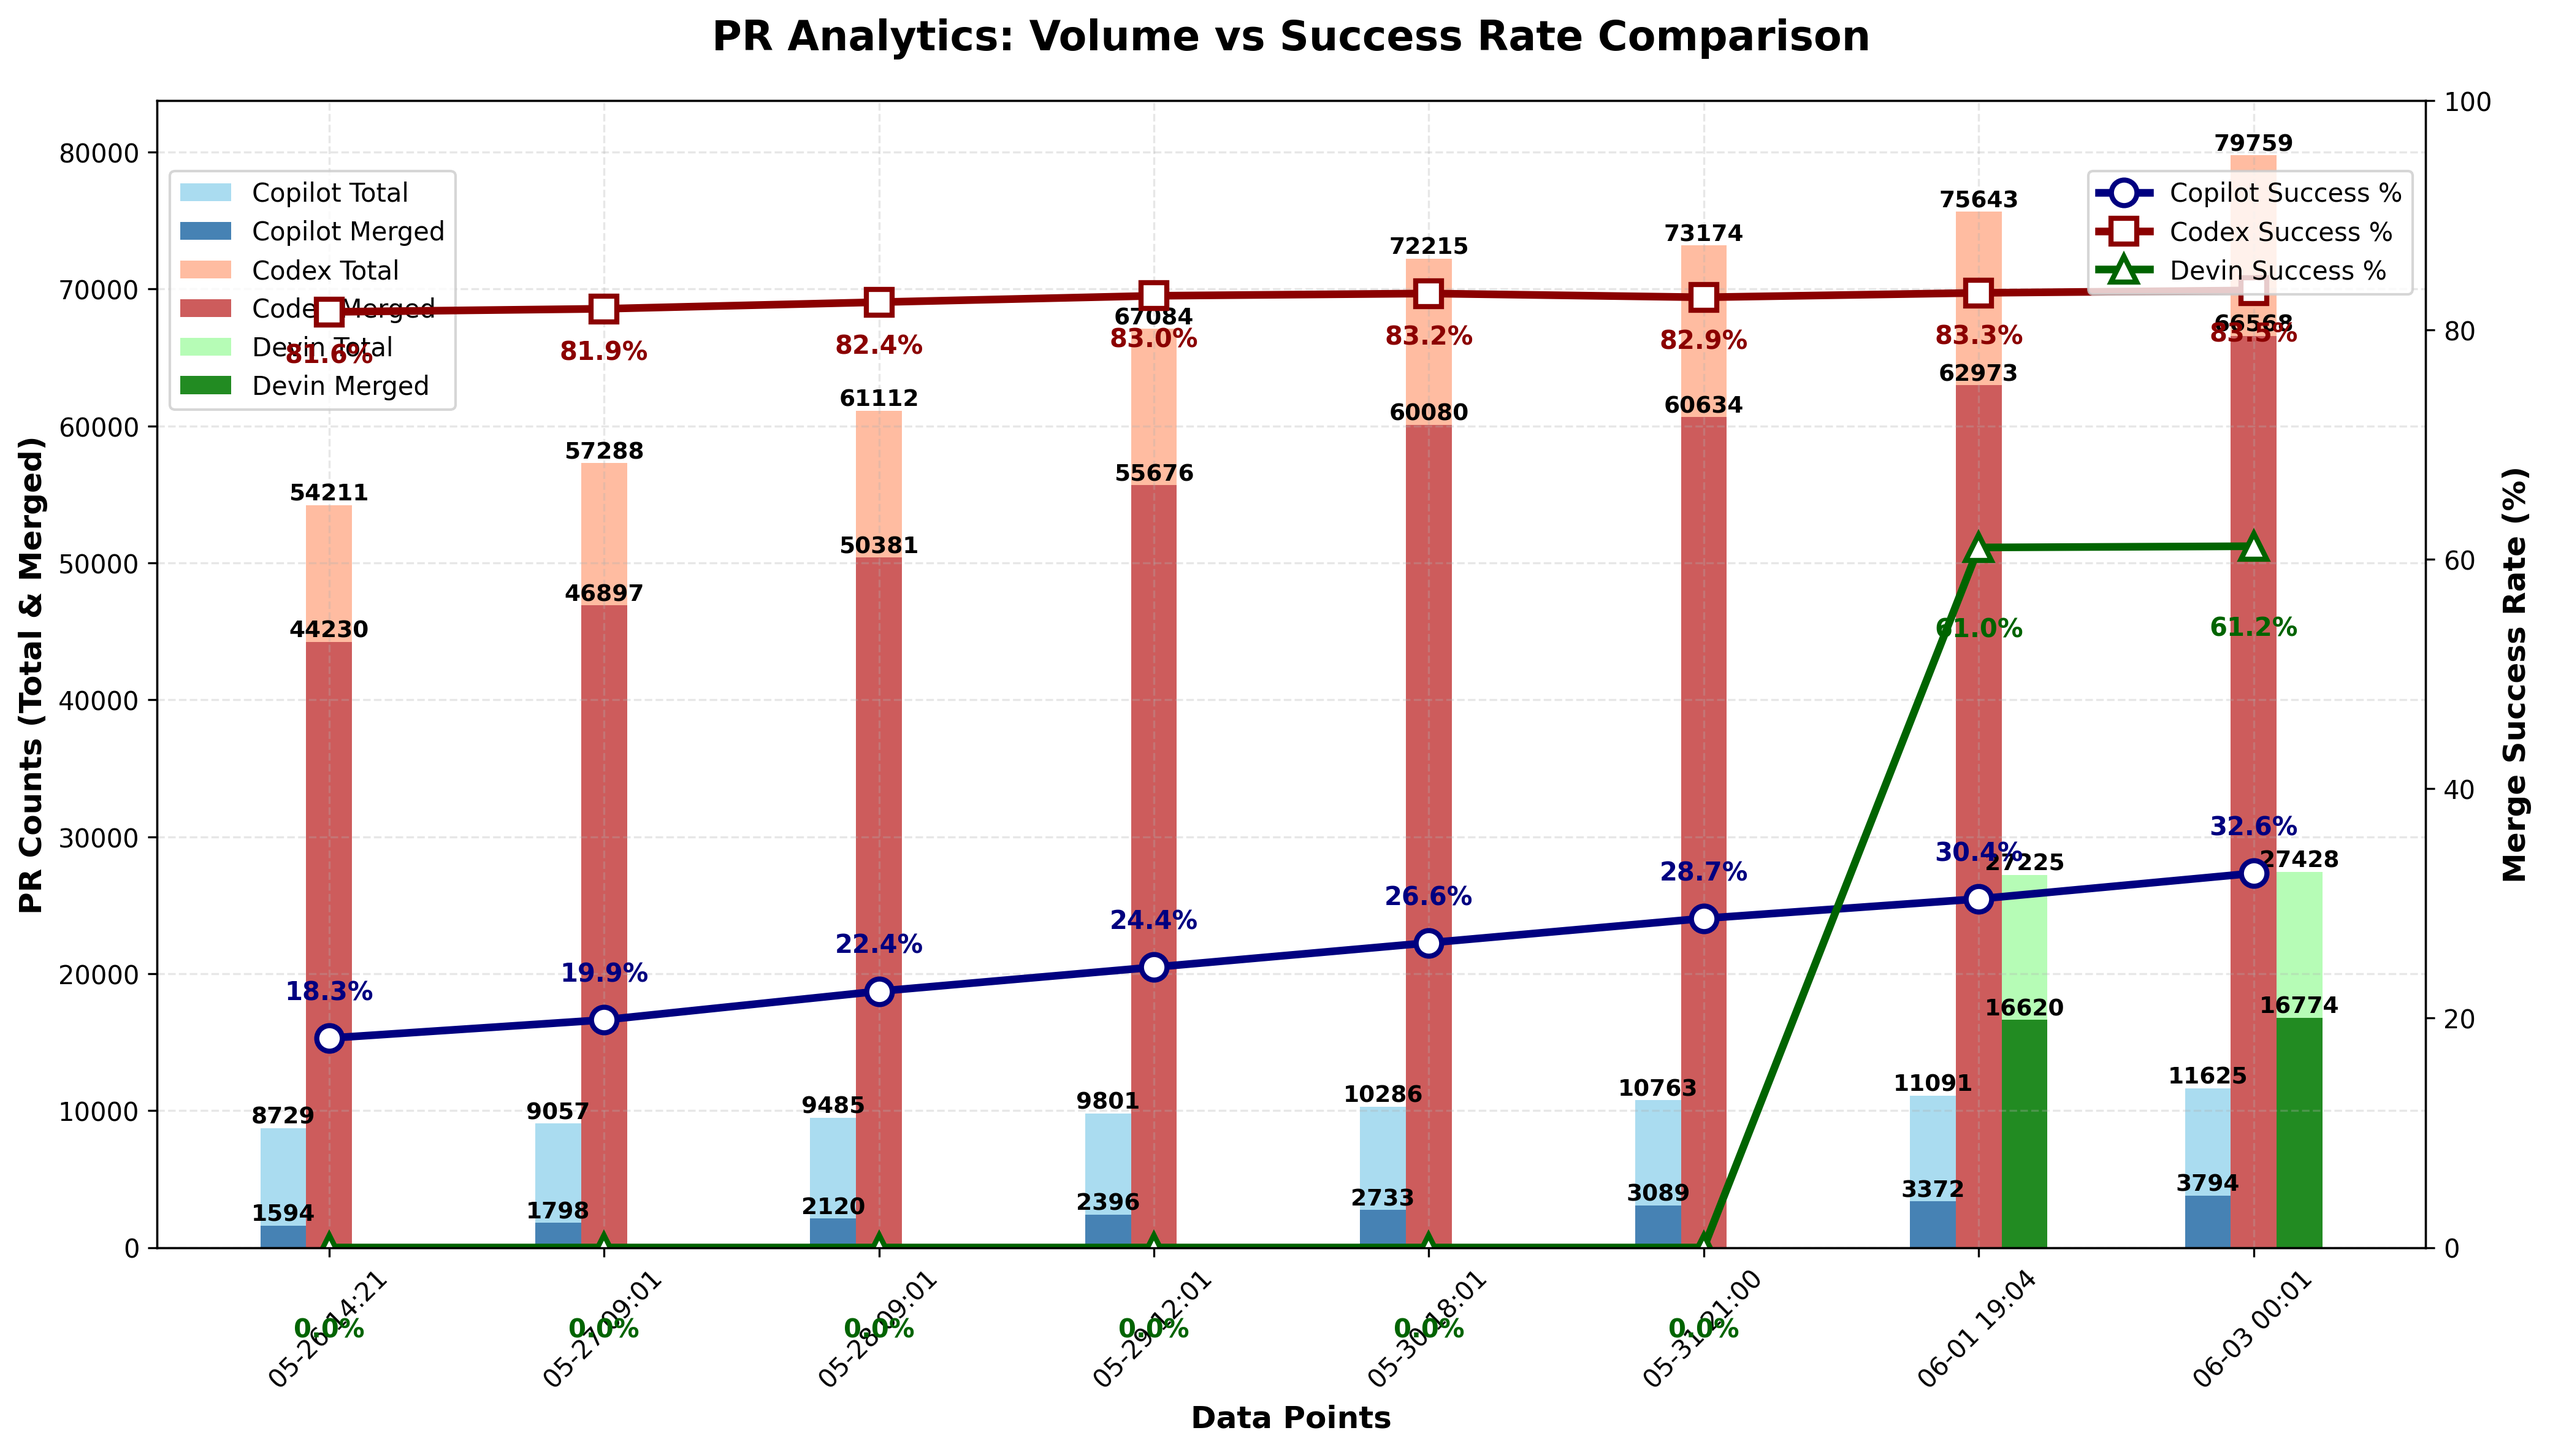
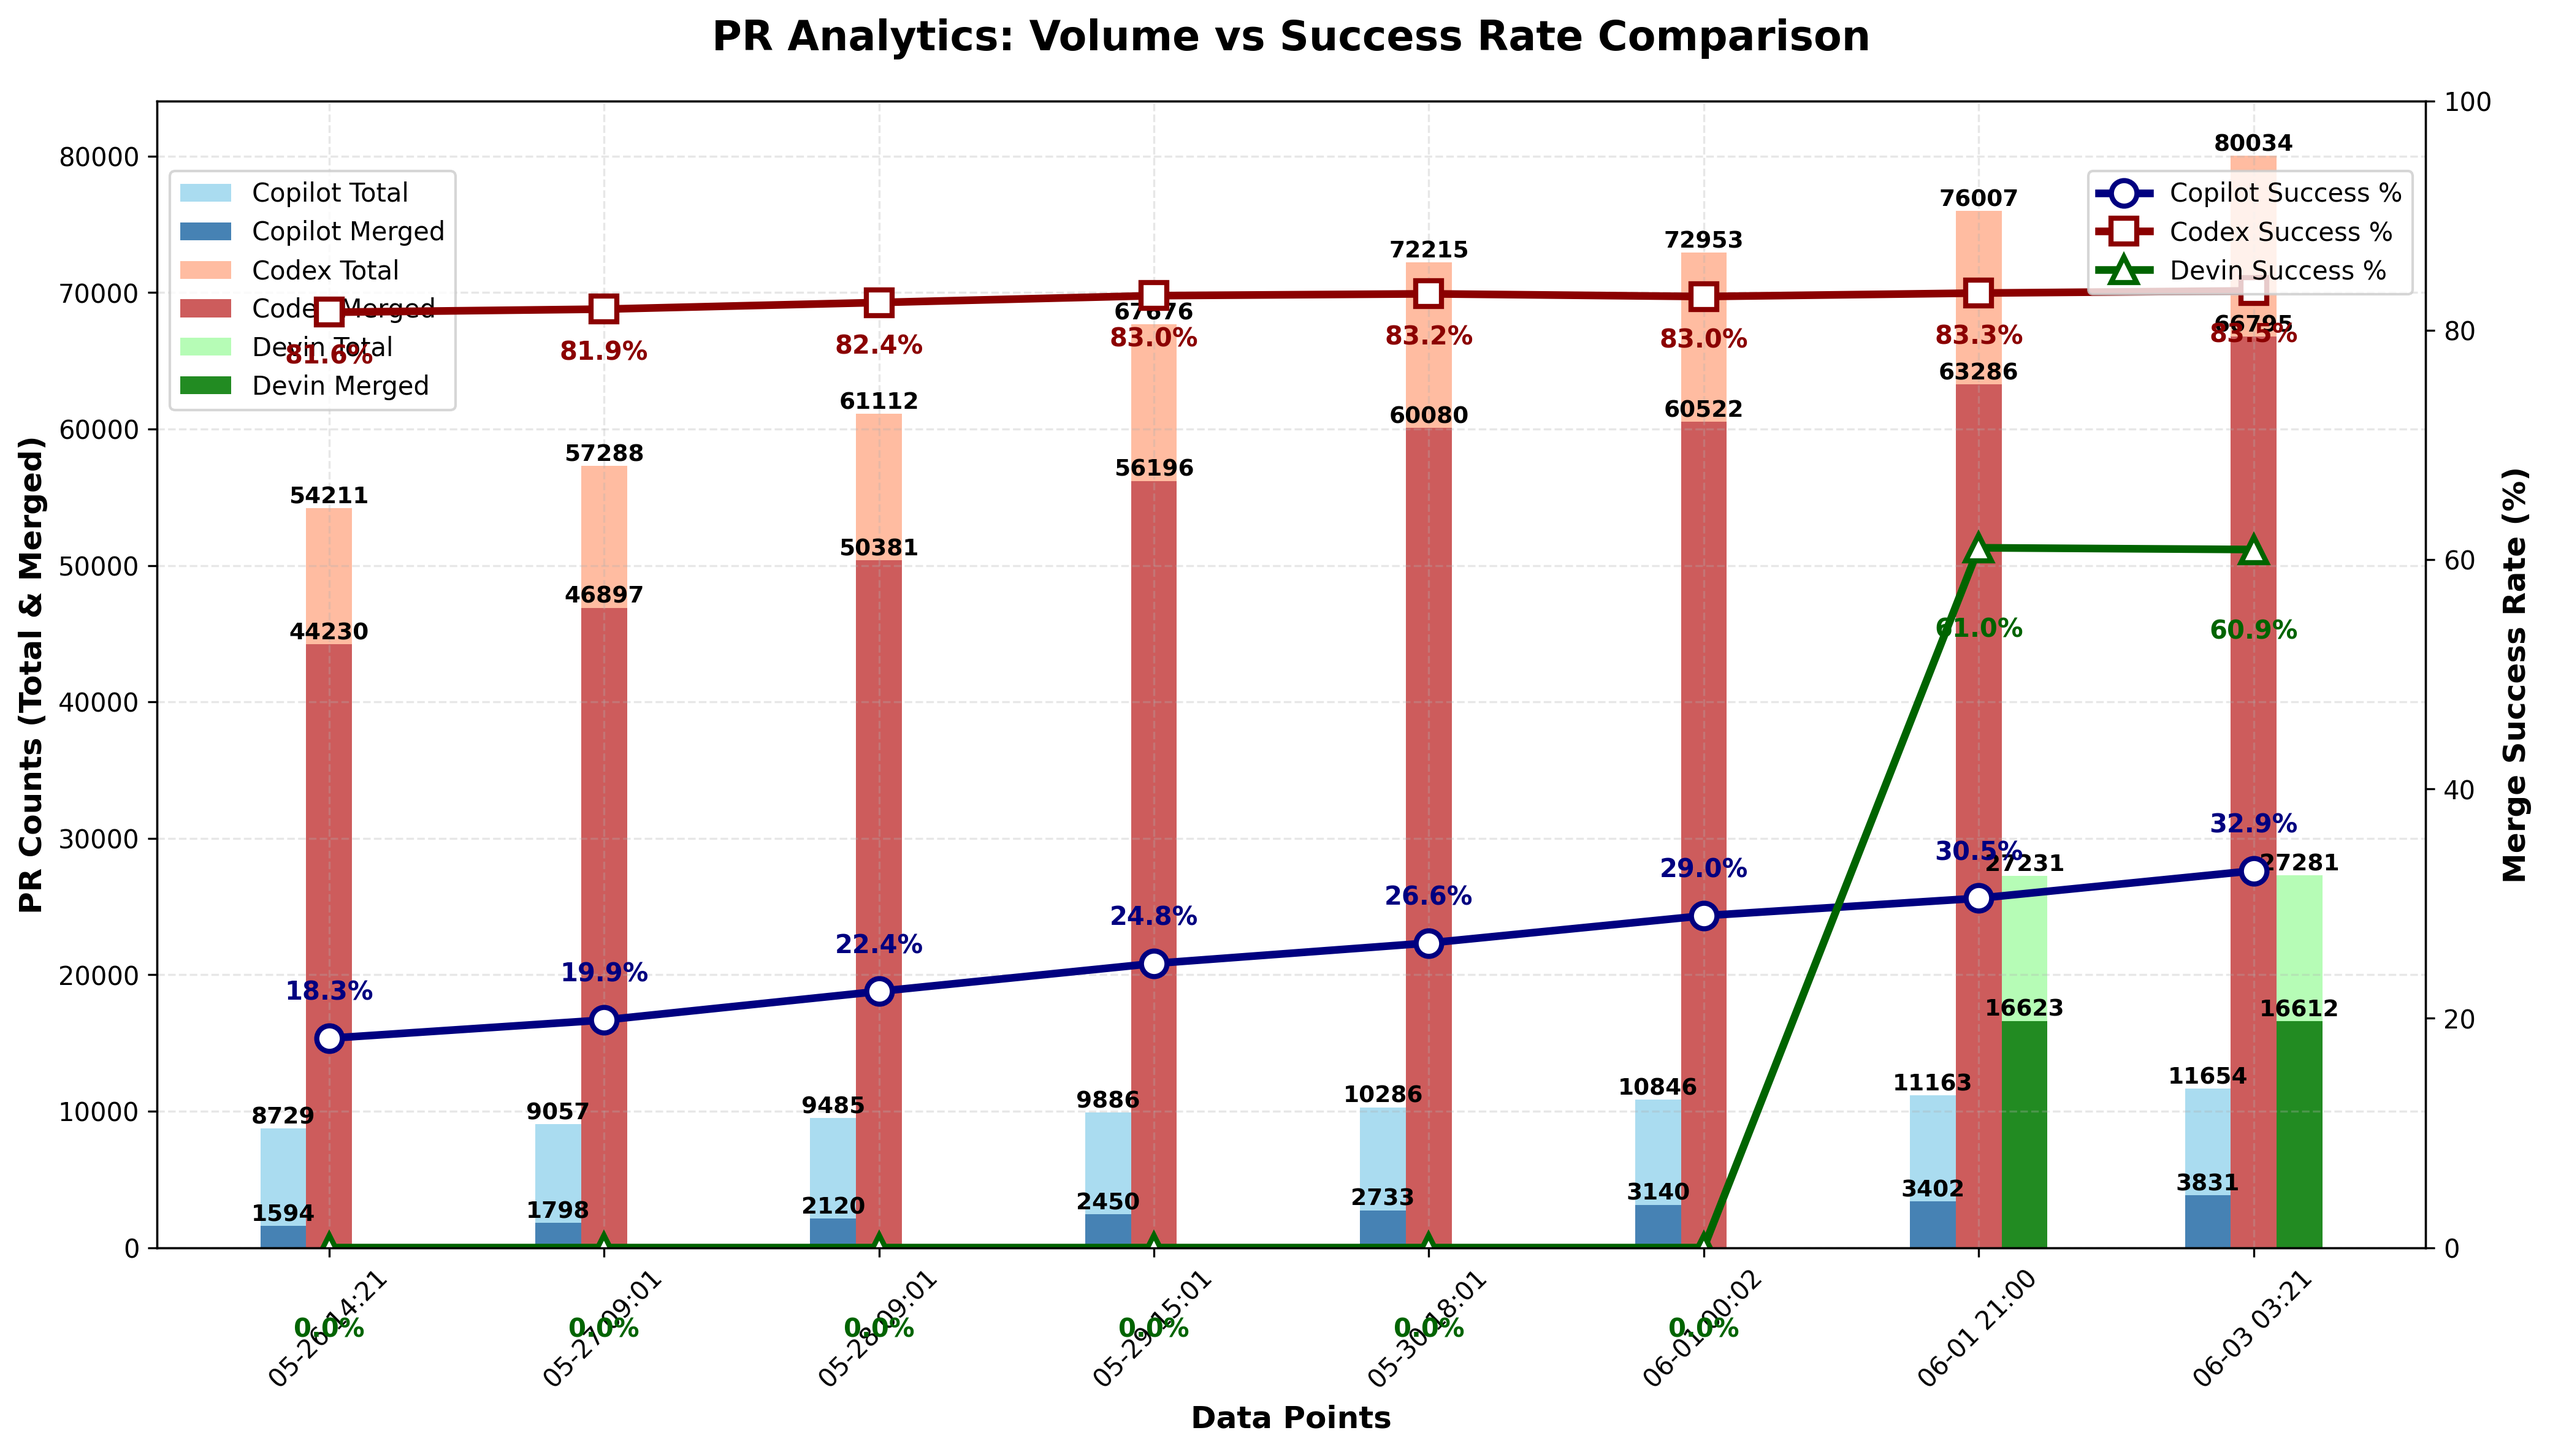
chore: update PR‑approval chart

diff --git a/docs/index.html b/docs/index.html
@@ -46,14 +46,14 @@
                 <tbody>
                     <tr>
                         <td>Copilot</td>
-                        <td>11,625</td>
-                        <td>3,794</td>
-                        <td>32.64%</td>
+                        <td>11,654</td>
+                        <td>3,831</td>
+                        <td>32.87%</td>
                     </tr>
                     <tr>
                         <td>Codex</td>
-                        <td>79,759</td>
-                        <td>66,568</td>
+                        <td>80,034</td>
+                        <td>66,795</td>
                         <td>83.46%</td>
                     </tr>
                 </tbody>
@@ -61,7 +61,7 @@
         </section>
 
         <footer>
-            <p>Last updated: <span id="last-updated">June 03, 2025 00:02 UTC</span></p>
+            <p>Last updated: <span id="last-updated">June 03, 2025 03:21 UTC</span></p>
             <p><a href="https://github.com/aavetis/ai-pr-watcher">View on GitHub</a></p>
         </footer>
     </div>

diff --git a/README.md b/README.md
@@ -21,6 +21,6 @@ Explore the GitHub search queries used:
 
 | Project | Total PRs | Merged PRs | Merge Rate |
 | ------- | --------- | ---------- | ---------- |
-| Copilot | 11,625 | 3,794 | 32.64% |
-| Codex   | 79,759 | 66,568 | 83.46% |
-| Devin   | 27,428 | 16,774 | 61.16% |
+| Copilot | 11,654 | 3,831 | 32.87% |
+| Codex   | 80,034 | 66,795 | 83.46% |
+| Devin   | 27,281 | 16,612 | 60.89% |
